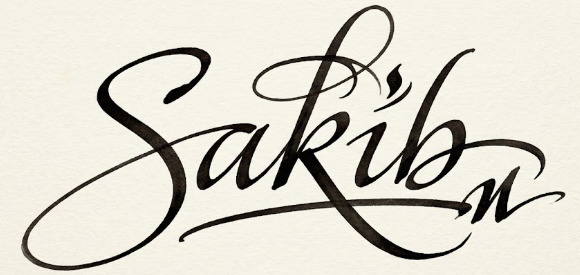
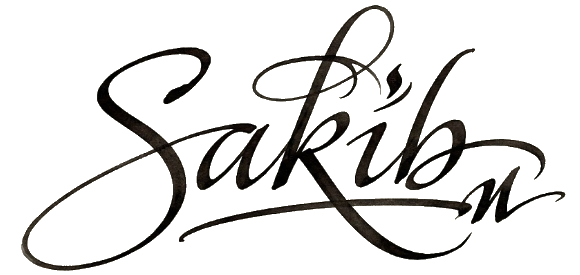
Signature: transparent bg, pure black day / pure white night
- Removed cream background from signature.png via Python/Pillow
  brightness threshold >570 -> transparent alpha
- CSS updated: brightness(0) invert(1) in dark mode (white sig)
  brightness(0) in light mode (black sig)

diff --git a/index.html b/index.html
@@ -142,10 +142,12 @@ body {
 /* signature replaces logo text */
 #hdr-signature {
   height: 46px; width: auto; display: block;
-  filter: invert(1);                         /* dark mode: cream bg ≈ dark, sig becomes light */
+  filter: brightness(0) invert(1);   /* night: pure white signature on transparent bg */
   transition: filter 0.45s ease;
 }
-[data-theme="light"] #hdr-signature { filter: none; } /* light mode: original dark-on-cream */
+[data-theme="light"] #hdr-signature {
+  filter: brightness(0);             /* day: pure black signature on transparent bg */
+}
 
 #theme-toggle {
   display: inline-flex; align-items: center; gap: 8px;